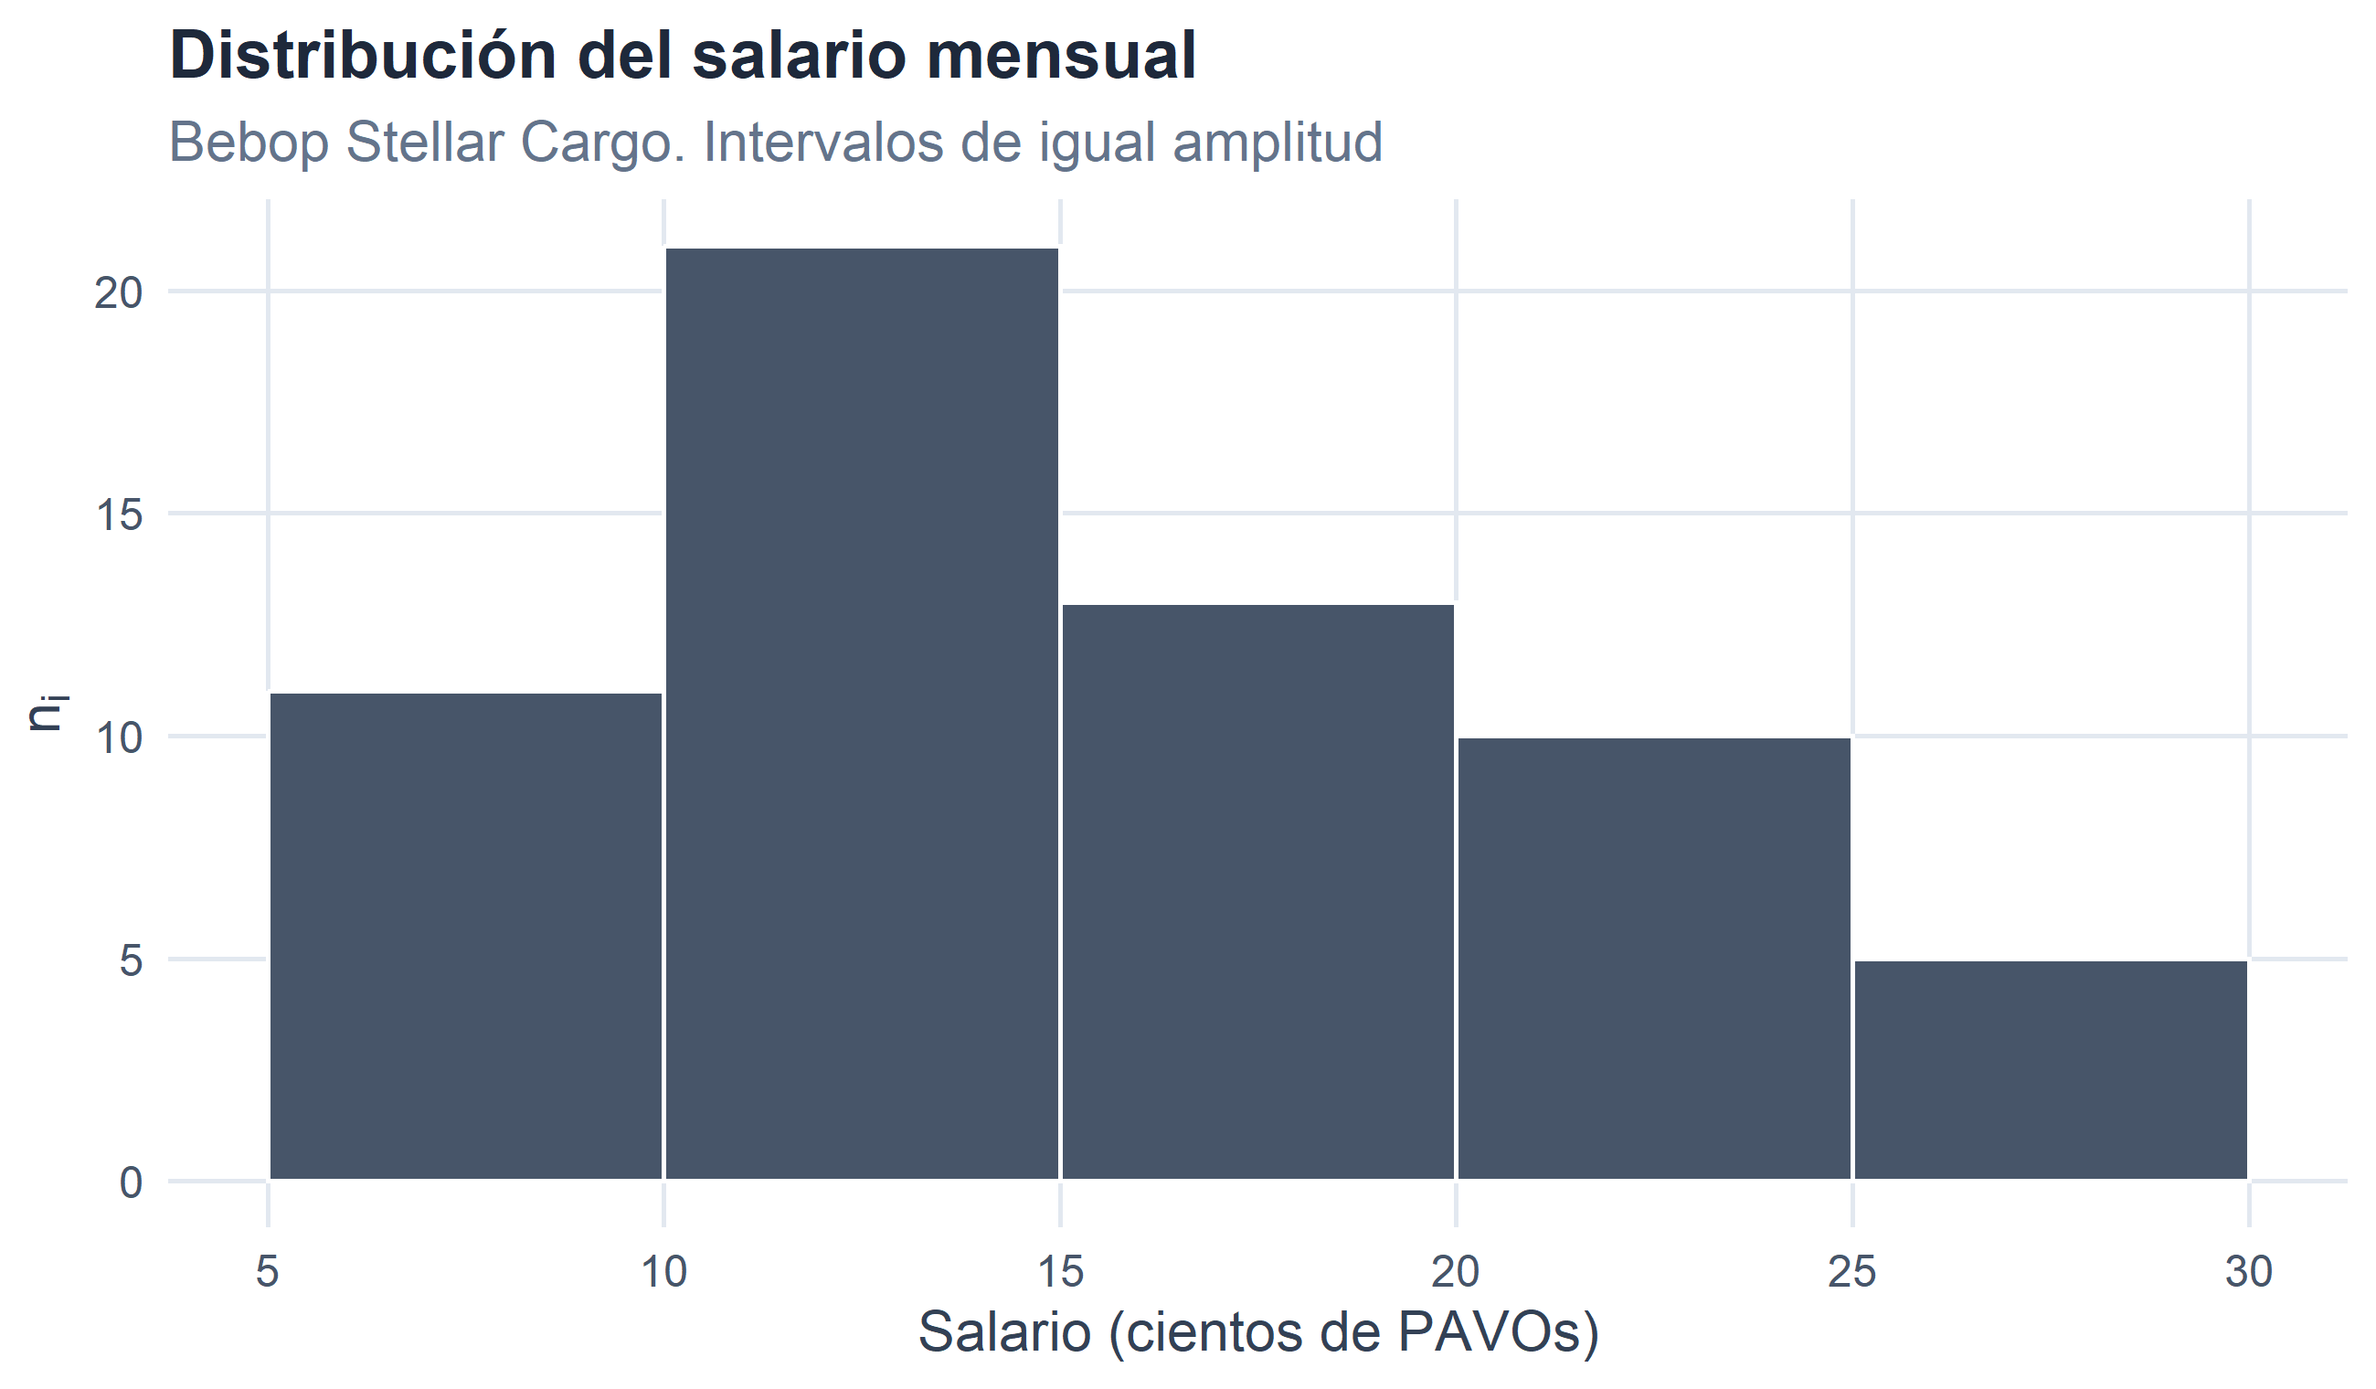
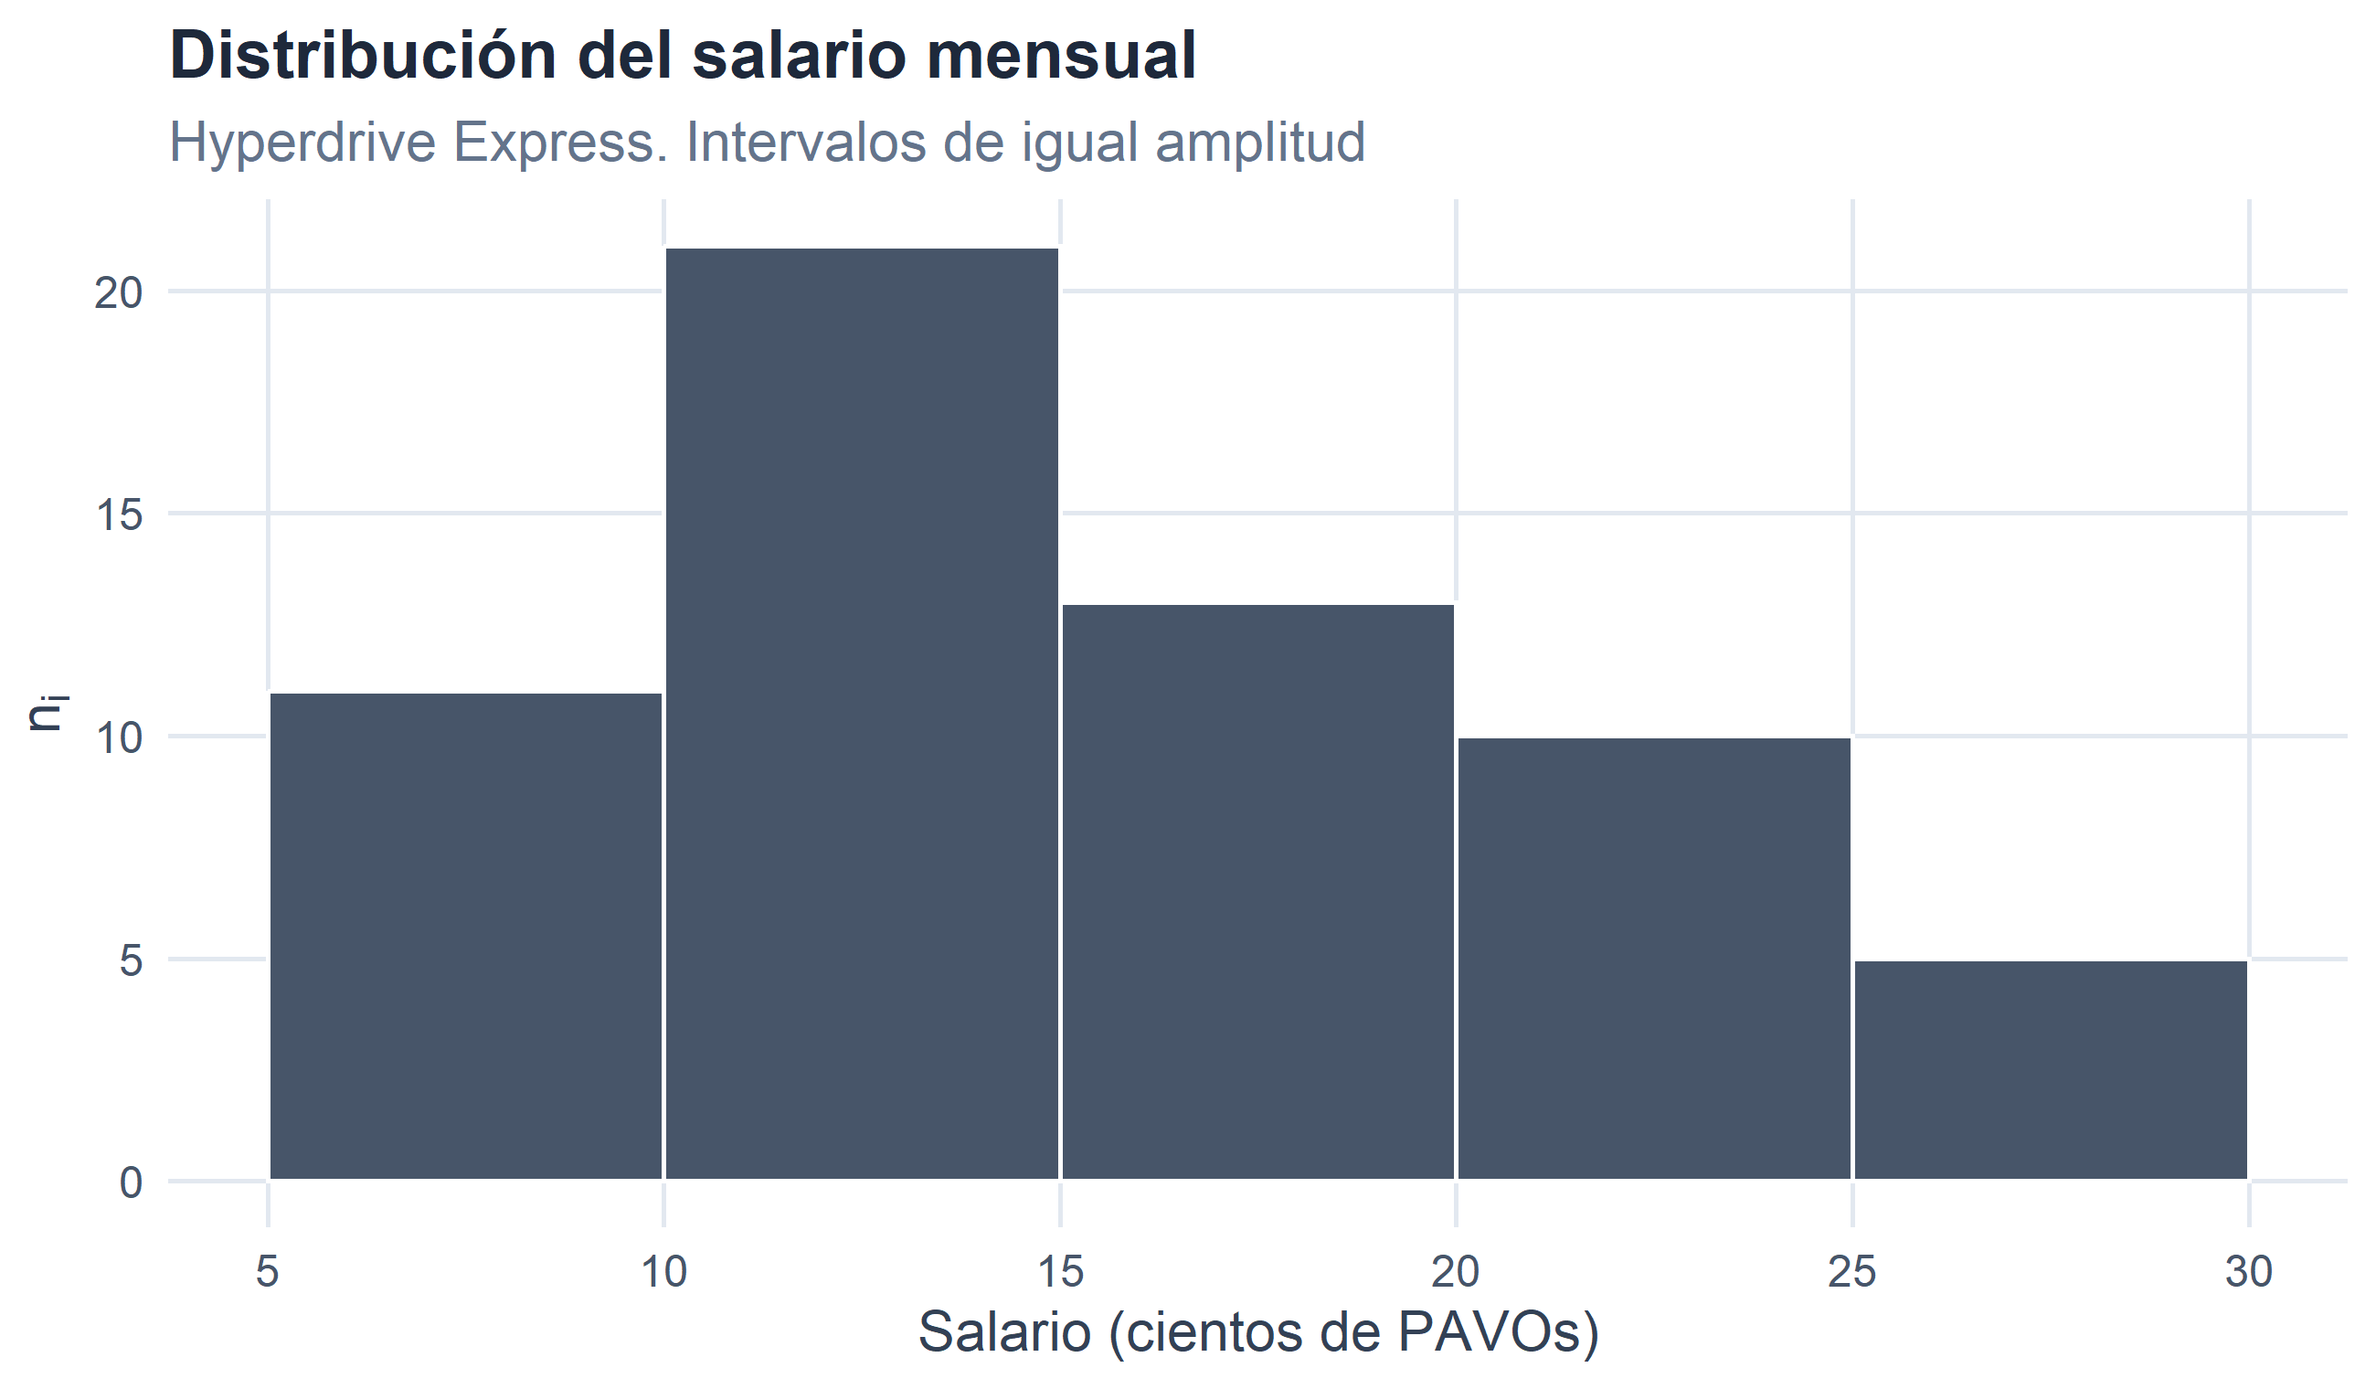
Cambios ejemplos cap. 1

Changed region(s): [[0.0623, 0.0928, 0.5919, 0.1237]]

diff --git a/docs/estadistica-economica-empresarial.html b/docs/estadistica-economica-empresarial.html
@@ -143,9 +143,9 @@
 </div>
 <div id="ejemplo-empresa" class="section level2" number="1.5">
 <h2>
-<span class="header-section-number">1.5</span> Un ejemplo de referencia: <em>Bebop Stellar Cargo</em>.<a class="anchor" aria-label="anchor" href="#ejemplo-empresa"><i class="fas fa-link"></i></a>
+<span class="header-section-number">1.5</span> Un ejemplo de referencia: <em>Hyperdrive Express</em>.<a class="anchor" aria-label="anchor" href="#ejemplo-empresa"><i class="fas fa-link"></i></a>
 </h2>
-<p>Para ilustrar de forma uniforme los conceptos que siguen, utilizaremos un ejemplo extraído del universo R-Stars: la plantilla de <strong>Bebop Stellar Cargo, S.G.</strong>, una compañía de tamaño medio especializada en el transporte de mercancías entre el cinturón de asteroides y las lunas heladas de Júpiter, con sede en <strong>Ganímedes</strong>. La empresa fue fundada por un grupo de pilotos veteranos cansados de cobrar a destajo, y hoy la dirige <em>Faye Tachyeres</em>, antigua cazarrecompensas reconvertida —según ella misma admite, con cierta resignación— en directora financiera.</p>
+<p>Para ilustrar de forma uniforme los conceptos que siguen, utilizaremos un ejemplo extraído del universo R-Stars: la plantilla de <strong>Hyperdrive Express</strong>, una compañía galáctica (<strong>C.G.</strong>) de tamaño medio con sede en <strong>Miranda</strong>, en la <strong>Gran Nube de Magallanes</strong>. La empresa opera una flota renovada de 24 cargueros y algo más de un millar de rutas de largo alcance, y presenta un perfil financiero saneado —márgenes por encima del 60 % y una rentabilidad económica cercana al 45 %—, lo que la sitúa entre las medianas más rentables de su galaxia. Buena parte de su reputación se debe a las conexiones rápidas que enlazan Miranda con los sistemas más alejados del brazo exterior, aprovechando —y de ahí el nombre— los saltos de hipervelocidad que hace ya unas décadas dejaron de ser ciencia ficción.</p>
 <p>La empresa tiene 60 trabajadores en plantilla. De cada uno de ellos disponemos de tres características:</p>
 <ul>
 <li>
@@ -281,7 +281,7 @@ Gestión Clientes
 </tbody>
 </table></div>
 <div style="text-align: center;">
-<p><strong>Tabla 1.1.</strong> Primeros casos del fichero de empleados de Bebop Stellar Cargo.</p>
+<p><strong>Tabla 1.1.</strong> Primeros casos del fichero de empleados de Hyperdrive Express.</p>
 </div>
 <p>A partir de este pequeño conjunto de datos vamos a ir introduciendo, sección a sección, los conceptos del capítulo.</p>
 </div>
@@ -553,7 +553,7 @@ Gestión Clientes
 </tbody>
 </table></div>
 <div style="text-align: center;">
-<p><strong>Tabla 1.3.</strong> Distribución de frecuencias del salario en Bebop Stellar Cargo (cientos de PAVOs).</p>
+<p><strong>Tabla 1.3.</strong> Distribución de frecuencias del salario en Hyperdrive Express (cientos de PAVOs).</p>
 </div>
 <p>Lectura: la columna <span class="math inline">\(n_i\)</span> indica cuántos empleados cobran exactamente <span class="math inline">\(x_i\)</span> cientos de PAVOs; <span class="math inline">\(N_i\)</span>, cuántos cobran como máximo esa cantidad; <span class="math inline">\(f_i\)</span> y <span class="math inline">\(F_i\)</span> son las versiones relativas. De <span class="math inline">\(F_i\)</span> se obtiene, por ejemplo, el porcentaje de la plantilla que cobra como mucho cada salario.</p>
 </div>
@@ -971,7 +971,7 @@ Intervalo
 <h4>
 <span class="header-section-number">1.8.2.2</span> Intervalos de distinta amplitud.<a class="anchor" aria-label="anchor" href="#intervalos-de-distinta-amplitud."><i class="fas fa-link"></i></a>
 </h4>
-<p>Cuando los datos están más concentrados en una zona, suele convenir usar intervalos más estrechos allí y más anchos en las colas. Para ilustrarlo, trabajaremos con una segunda muestra: el <strong>importe anual de los contratos</strong> (en miles de PAVOs) firmados con los 200 mayores clientes corporativos de Bebop Stellar Cargo a lo largo del último ejercicio.</p>
+<p>Cuando los datos están más concentrados en una zona, suele convenir usar intervalos más estrechos allí y más anchos en las colas. Para ilustrarlo, trabajaremos con una segunda muestra: el <strong>importe anual de los contratos</strong> (en miles de PAVOs) firmados con los 200 mayores clientes corporativos de Hyperdrive Express a lo largo del último ejercicio.</p>
 <div class="inline-table"><table class="table table-hover table-condensed" style="font-size: 13px; width: auto !important; margin-left: auto; margin-right: auto;">
 <thead><tr>
 <th style="text-align:center;">
@@ -1101,7 +1101,7 @@ Intervalo
 <li>En cada individuo medimos <strong>variables</strong> (cuantitativas) o <strong>atributos</strong> (cualitativos), con sus respectivas <strong>escalas de medida</strong> (nominal, ordinal o métrica).</li>
 <li>El primer paso de cualquier análisis es construir <strong>distribuciones de frecuencias</strong>, eventualmente <strong>agrupadas en intervalos</strong>, e ilustrarlas con las <strong>representaciones gráficas</strong> adecuadas a la naturaleza de la característica.</li>
 </ul>
-<p>A partir de aquí, en el siguiente capítulo profundizaremos en cómo <strong>resumir</strong> una variable estadística unidimensional mediante medidas de posición, dispersión, forma y concentración. <em>Bebop Stellar Cargo</em> nos seguirá acompañando.</p>
+<p>A partir de aquí, en el siguiente capítulo profundizaremos en cómo <strong>resumir</strong> una variable estadística unidimensional mediante medidas de posición, dispersión, forma y concentración. <em>Hyperdrive Express</em> nos seguirá acompañando.</p>
 
 </div>
 </div>
@@ -1116,7 +1116,7 @@ Intervalo
 <li><a class="nav-link" href="#estadistica-y-economia"><span class="header-section-number">1.2</span> Estadística y Ciencia Económica.</a></li>
 <li><a class="nav-link" href="#poblacion-muestra-caso"><span class="header-section-number">1.3</span> Población, muestra e individuo.</a></li>
 <li><a class="nav-link" href="#metodo-estadistico"><span class="header-section-number">1.4</span> El método estadístico: descripción e inferencia.</a></li>
-<li><a class="nav-link" href="#ejemplo-empresa"><span class="header-section-number">1.5</span> Un ejemplo de referencia: Bebop Stellar Cargo.</a></li>
+<li><a class="nav-link" href="#ejemplo-empresa"><span class="header-section-number">1.5</span> Un ejemplo de referencia: Hyperdrive Express.</a></li>
 <li><a class="nav-link" href="#variables-atributos-escalas"><span class="header-section-number">1.6</span> Variables, atributos y escalas de medida.</a></li>
 <li>
 <a class="nav-link" href="#distribuciones-de-frecuencias"><span class="header-section-number">1.7</span> Distribuciones de frecuencias.</a><ul class="nav navbar-nav">
@@ -1149,7 +1149,7 @@ Intervalo
 <footer class="bg-primary text-light mt-5"><div class="container"><div class="row">
 
   <div class="col-12 col-md-6 mt-3">
-    <p>"<strong>Estadística Empresarial</strong>" was written by Miguel Ángel Tarancón Morán. It was last built on 2026-06-30.</p>
+    <p>"<strong>Estadística Empresarial</strong>" was written by Miguel Ángel Tarancón Morán. It was last built on 2026-07-01.</p>
   </div>
 
   <div class="col-12 col-md-6 mt-3">

diff --git a/docs/modelos-de-probabilidad-continuos-univariantes..html b/docs/modelos-de-probabilidad-continuos-univariantes..html
@@ -106,7 +106,7 @@ Student</strong> y la <strong>F de Snedecor</strong>, con sus aplicaciones más 
 <footer class="bg-primary text-light mt-5"><div class="container"><div class="row">
 
   <div class="col-12 col-md-6 mt-3">
-    <p>"<strong>Estadística Empresarial</strong>" was written by Miguel Ángel Tarancón Morán. It was last built on 2026-06-30.</p>
+    <p>"<strong>Estadística Empresarial</strong>" was written by Miguel Ángel Tarancón Morán. It was last built on 2026-07-01.</p>
   </div>
 
   <div class="col-12 col-md-6 mt-3">

diff --git a/docs/modelos-de-probabilidad-discretos-univariantes..html b/docs/modelos-de-probabilidad-discretos-univariantes..html
@@ -106,7 +106,7 @@ surge y sus aplicaciones más habituales en el contexto económico-empresarial.<
 <footer class="bg-primary text-light mt-5"><div class="container"><div class="row">
 
   <div class="col-12 col-md-6 mt-3">
-    <p>"<strong>Estadística Empresarial</strong>" was written by Miguel Ángel Tarancón Morán. It was last built on 2026-06-30.</p>
+    <p>"<strong>Estadística Empresarial</strong>" was written by Miguel Ángel Tarancón Morán. It was last built on 2026-07-01.</p>
   </div>
 
   <div class="col-12 col-md-6 mt-3">

diff --git a/docs/variable-estadística-unidimensional..html b/docs/variable-estadística-unidimensional..html
@@ -106,7 +106,7 @@ medidas de <strong>posición</strong>, <strong>dispersión</strong>, <strong>for
 <footer class="bg-primary text-light mt-5"><div class="container"><div class="row">
 
   <div class="col-12 col-md-6 mt-3">
-    <p>"<strong>Estadística Empresarial</strong>" was written by Miguel Ángel Tarancón Morán. It was last built on 2026-06-30.</p>
+    <p>"<strong>Estadística Empresarial</strong>" was written by Miguel Ángel Tarancón Morán. It was last built on 2026-07-01.</p>
   </div>
 
   <div class="col-12 col-md-6 mt-3">

diff --git a/docs/variable-estadística-bidimensional-y-n-dimensional..html b/docs/variable-estadística-bidimensional-y-n-dimensional..html
@@ -105,7 +105,7 @@ las bases para el estudio posterior de la regresión y la correlación.</p>
 <footer class="bg-primary text-light mt-5"><div class="container"><div class="row">
 
   <div class="col-12 col-md-6 mt-3">
-    <p>"<strong>Estadística Empresarial</strong>" was written by Miguel Ángel Tarancón Morán. It was last built on 2026-06-30.</p>
+    <p>"<strong>Estadística Empresarial</strong>" was written by Miguel Ángel Tarancón Morán. It was last built on 2026-07-01.</p>
   </div>
 
   <div class="col-12 col-md-6 mt-3">

diff --git a/docs/regresión-y-correlación..html b/docs/regresión-y-correlación..html
@@ -105,7 +105,7 @@ especial énfasis en su aplicación al análisis empresarial.</p>
 <footer class="bg-primary text-light mt-5"><div class="container"><div class="row">
 
   <div class="col-12 col-md-6 mt-3">
-    <p>"<strong>Estadística Empresarial</strong>" was written by Miguel Ángel Tarancón Morán. It was last built on 2026-06-30.</p>
+    <p>"<strong>Estadística Empresarial</strong>" was written by Miguel Ángel Tarancón Morán. It was last built on 2026-07-01.</p>
   </div>
 
   <div class="col-12 col-md-6 mt-3">

diff --git a/docs/404.html b/docs/404.html
@@ -89,7 +89,7 @@ the table of contents to find the page you are looking for.</p>
 <footer class="bg-primary text-light mt-5"><div class="container"><div class="row">
 
   <div class="col-12 col-md-6 mt-3">
-    <p>"<strong>Estadística Empresarial</strong>" was written by Miguel Ángel Tarancón Morán. It was last built on 2026-06-30.</p>
+    <p>"<strong>Estadística Empresarial</strong>" was written by Miguel Ángel Tarancón Morán. It was last built on 2026-07-01.</p>
   </div>
 
   <div class="col-12 col-md-6 mt-3">

diff --git a/docs/index.html b/docs/index.html
@@ -102,7 +102,7 @@ Administración y Dirección de Empresas.&lt;/p&gt;">
 <footer class="bg-primary text-light mt-5"><div class="container"><div class="row">
 
   <div class="col-12 col-md-6 mt-3">
-    <p>"<strong>Estadística Empresarial</strong>" was written by Miguel Ángel Tarancón Morán. It was last built on 2026-06-30.</p>
+    <p>"<strong>Estadística Empresarial</strong>" was written by Miguel Ángel Tarancón Morán. It was last built on 2026-07-01.</p>
   </div>
 
   <div class="col-12 col-md-6 mt-3">

diff --git a/docs/bibliografía.html b/docs/bibliografía.html
@@ -99,7 +99,7 @@ Administración y Dirección de Empresas.&lt;/p&gt;">
 <footer class="bg-primary text-light mt-5"><div class="container"><div class="row">
 
   <div class="col-12 col-md-6 mt-3">
-    <p>"<strong>Estadística Empresarial</strong>" was written by Miguel Ángel Tarancón Morán. It was last built on 2026-06-30.</p>
+    <p>"<strong>Estadística Empresarial</strong>" was written by Miguel Ángel Tarancón Morán. It was last built on 2026-07-01.</p>
   </div>
 
   <div class="col-12 col-md-6 mt-3">

diff --git a/docs/prefacio.html b/docs/prefacio.html
@@ -112,7 +112,7 @@ sugerencia o aviso sobre fallos detectados.</p>
 <footer class="bg-primary text-light mt-5"><div class="container"><div class="row">
 
   <div class="col-12 col-md-6 mt-3">
-    <p>"<strong>Estadística Empresarial</strong>" was written by Miguel Ángel Tarancón Morán. It was last built on 2026-06-30.</p>
+    <p>"<strong>Estadística Empresarial</strong>" was written by Miguel Ángel Tarancón Morán. It was last built on 2026-07-01.</p>
   </div>
 
   <div class="col-12 col-md-6 mt-3">

diff --git a/docs/convergencia-y-teoremas-límite..html b/docs/convergencia-y-teoremas-límite..html
@@ -107,7 +107,7 @@ de fenómenos económicos y empresariales.</p>
 <footer class="bg-primary text-light mt-5"><div class="container"><div class="row">
 
   <div class="col-12 col-md-6 mt-3">
-    <p>"<strong>Estadística Empresarial</strong>" was written by Miguel Ángel Tarancón Morán. It was last built on 2026-06-30.</p>
+    <p>"<strong>Estadística Empresarial</strong>" was written by Miguel Ángel Tarancón Morán. It was last built on 2026-07-01.</p>
   </div>
 
   <div class="col-12 col-md-6 mt-3">

diff --git a/docs/probabilidad..html b/docs/probabilidad..html
@@ -106,7 +106,7 @@ contexto empresarial.</p>
 <footer class="bg-primary text-light mt-5"><div class="container"><div class="row">
 
   <div class="col-12 col-md-6 mt-3">
-    <p>"<strong>Estadística Empresarial</strong>" was written by Miguel Ángel Tarancón Morán. It was last built on 2026-06-30.</p>
+    <p>"<strong>Estadística Empresarial</strong>" was written by Miguel Ángel Tarancón Morán. It was last built on 2026-07-01.</p>
   </div>
 
   <div class="col-12 col-md-6 mt-3">
